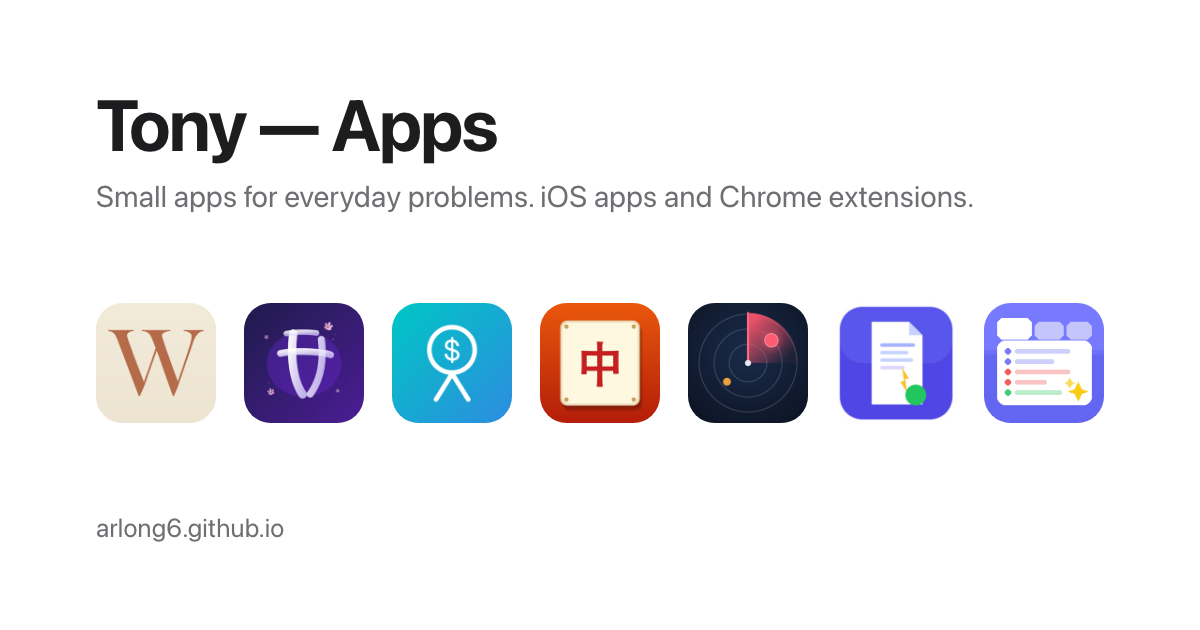
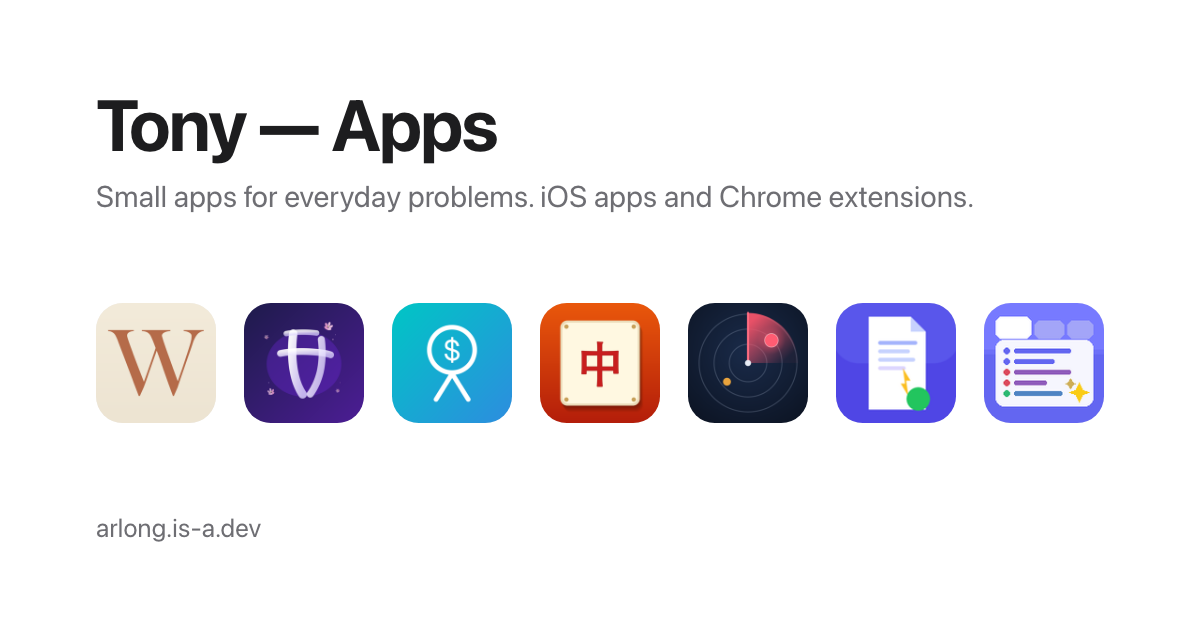
Switch canonical/og URLs to arlong.is-a.dev
Claude-Session: https://claude.ai/code/session_01DX9Jhdo5XYWZD6kGoF7Sya

Changed region(s): [[0.6783, 0.4825, 0.8017, 0.6937], [0.8325, 0.5127, 0.925, 0.6635], [0.1233, 0.8143, 0.2467, 0.8746]]

diff --git a/index.html b/index.html
@@ -8,12 +8,12 @@
   <meta name="theme-color" content="#ffffff">
   <link rel="icon" type="image/png" href="favicon.png?v=2">
   <link rel="apple-touch-icon" href="apple-touch-icon.png">
-  <link rel="canonical" href="https://arlong6.github.io/">
+  <link rel="canonical" href="https://arlong.is-a.dev/">
   <meta property="og:type" content="website">
   <meta property="og:title" content="Tony — Apps">
   <meta property="og:description" content="Small apps for everyday problems. iOS apps and Chrome extensions by Tony (arlong).">
-  <meta property="og:url" content="https://arlong6.github.io/">
-  <meta property="og:image" content="https://arlong6.github.io/og.png">
+  <meta property="og:url" content="https://arlong.is-a.dev/">
+  <meta property="og:image" content="https://arlong.is-a.dev/og.png">
   <meta property="og:image:width" content="1200">
   <meta property="og:image:height" content="630">
   <meta name="twitter:card" content="summary_large_image">

diff --git a/og.html b/og.html
@@ -14,5 +14,5 @@
   <div class="row">
     <img src="icons/dayword.png"><img src="icons/nihongo-manabi.png"><img src="icons/splity.png"><img src="icons/mahjong.png"><img src="icons/stocktrack.png"><img src="icons/ai-job-autofill.png"><img src="icons/ai-tab-manager.png">
   </div>
-  <p class="url">arlong6.github.io</p>
+  <p class="url">arlong.is-a.dev</p>
 </div></body></html>

diff --git a/build.py b/build.py
@@ -30,12 +30,12 @@ HEAD = '''<!doctype html>
   <meta name="theme-color" content="#ffffff">
   <link rel="icon" type="image/png" href="favicon.png?v=2">
   <link rel="apple-touch-icon" href="apple-touch-icon.png">
-  <link rel="canonical" href="https://arlong6.github.io/">
+  <link rel="canonical" href="https://arlong.is-a.dev/">
   <meta property="og:type" content="website">
   <meta property="og:title" content="Tony — Apps">
   <meta property="og:description" content="Small apps for everyday problems. iOS apps and Chrome extensions by Tony (arlong).">
-  <meta property="og:url" content="https://arlong6.github.io/">
-  <meta property="og:image" content="https://arlong6.github.io/og.png">
+  <meta property="og:url" content="https://arlong.is-a.dev/">
+  <meta property="og:image" content="https://arlong.is-a.dev/og.png">
   <meta property="og:image:width" content="1200">
   <meta property="og:image:height" content="630">
   <meta name="twitter:card" content="summary_large_image">
